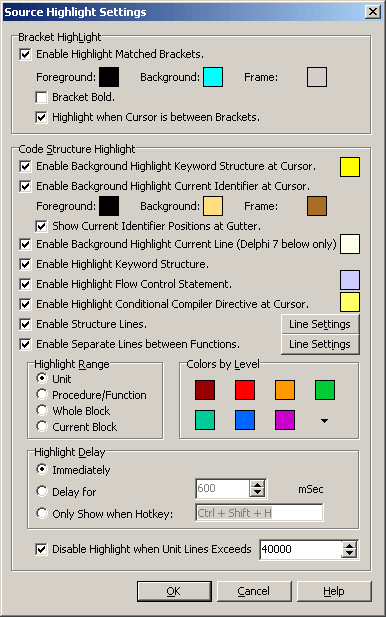
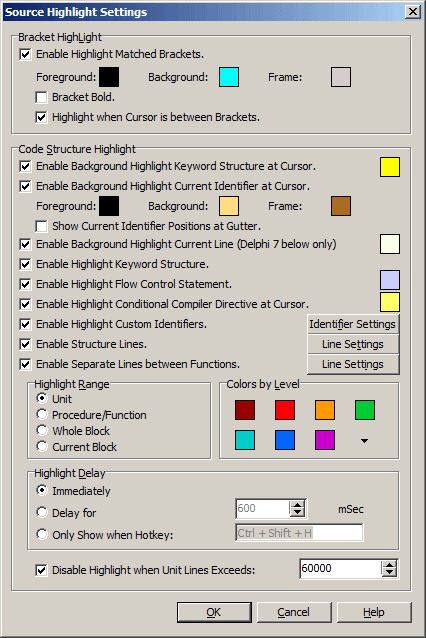
* [Help] Update Help for Source Highlight.

Changed region(s): [[0.0, 0.0, 0.9948, 0.9854], [0.6218, 0.0924, 0.715, 0.154], [0.7772, 0.0924, 0.8394, 0.154]]

diff --git a/Help/CnWizards_ENU/ideenhance/srchighlight.htm b/Help/CnWizards_ENU/ideenhance/srchighlight.htm
@@ -82,6 +82,30 @@ Brackets ( ), [ ], { } are supported. But { } only valid in C/C++. Code Structur
 <p class="text"><b>Enable Highlight Conditional Compiler Directive at Cursor.</b>: Whether Enable Highlight Background for Matched Conditional Compiler Directive(Preprocessor) in Pascal and C/C++, including {$IFDEF/IFNDEF/IF} {$ELSE} {$ENDIF/IFEND} in Pascal and #if/ifdef/ifndef #else/#elif #endif in C/C++.</p>
   </li>
   <li>
+<p class="text"><b>Enable Highlight Custom Identifiers.</b>: To accommodate the user's custom highlighting needs, this option allows the user to specify identifiers that require additional highlighting.</p>
+  </li>
+    <li>
+<p class="text"><b>Identifier Settings</b>: Settings for custom identifiers. Click to open the dialog box as shown below:</p>
+<p align="center" class="text"><img src="srchighlightcustomidentconf.png"></p>
+  </li>
+  <ul>
+  <li>
+<p class="text"><b>Custom Highlight Identifiers</b>: List the identifiers in the source code that need to be highlighted. Pascal source code is case-insensitive, while C/C++ source code is case-sensitive. Checking "Bold" will force the identifier to be highlighted in bold.</p>
+  </li>
+  <li>
+<p class="text"><b>Foreground</b>: The text color used for highlighting.</p>
+  </li>
+  <li>
+<p class="text"><b>Background</b>: The background color used for highlighting.</p>
+  </li>
+  <li>
+<p class="text"><b>Add an Identifier</b>Click to add a new identifier that needs to be highlighted. Note that it must be a valid identifier or keyword.</p>
+  </li>
+  <li>
+<p class="text"><b>Delete Selected Identifier</b>Click to delete the selected highlighted identifier.</p>
+  </li>
+  </ul>
+  <li>
 <p class="text"><b>Enable Structure Lines.</b>: Whether Enable Lines Structure Highlight in IDE Editor.</p>
   </li>
   <li>
@@ -173,6 +197,9 @@ Brackets ( ), [ ], { } are supported. But { } only valid in C/C++. Code Structur
   </li>
   <li>
 <p class="text"><b>Cancel</b>: Cancel settings and close dialog.</p>
+  </li>
+  <li>
+<p class="text"><b>Help</b>: Show this help.</p>
   </li>
 </ul>
 <p class="text">&nbsp;</p>
